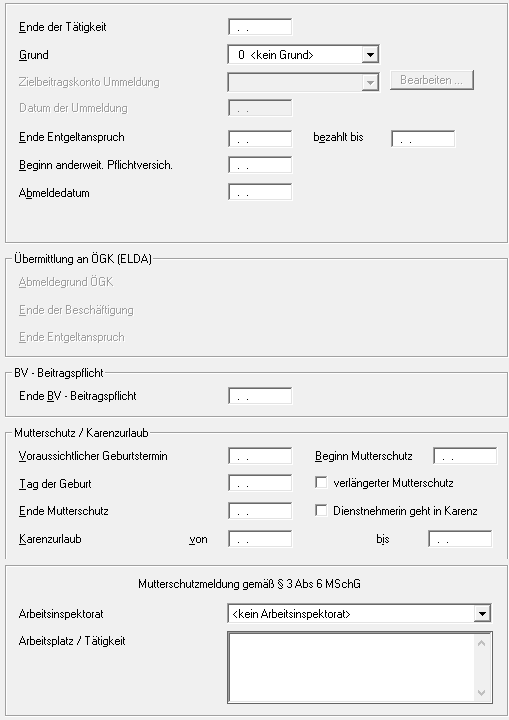
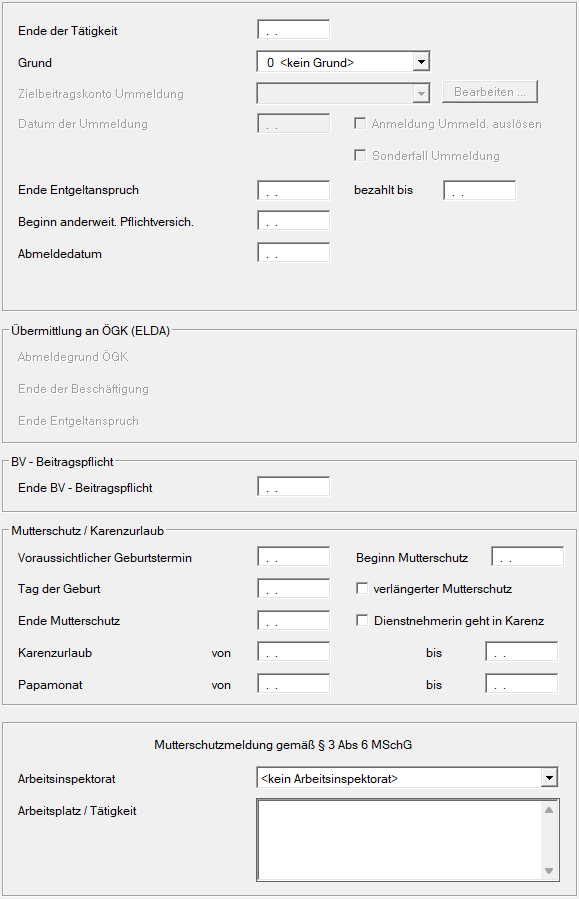
Freier Dienstvertrag - Abmeldung - Papamonat hinzugefügt

Changed region(s): [[0.0, 0.0, 1.0, 1.0]]

diff --git a/docs/LOHN/Freie_Dienstverträge/Abmeldung.md b/docs/LOHN/Freie_Dienstverträge/Abmeldung.md
@@ -42,6 +42,10 @@ Das Datum Ende BV-Beitragspflicht wird vom Programm automatisch ermittelt.
 
 Hier können die Daten der Geburt und des Mutterschutzes erfasst werden.
 
+### Papamonat
+
+Durch die Eingabe des Zeitraums für den Papamonat werden alle relevanten Austrittsdaten im oberen Bereich automatisch erfasst.
+
 ## Mutterschutzmeldung gemäß § 3 Abs 6 MSchG
 
 Wählen Sie das entsprechende *Arbeitsinspektorat* aus und geben Sie eine kurze Beschreibung des *Arbeitsplatzes* bzw. der *Tätigkeit* ein. Nach erfolgreicher Eingabe der Daten kann über *Ausdruck / Sonderdrucke / Mutterschutzmeldung an das Arbeitsinspektorat* die Mutterschutzmeldung ausgedruckt werden.
